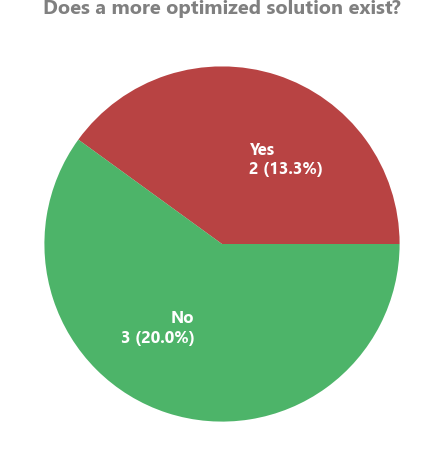
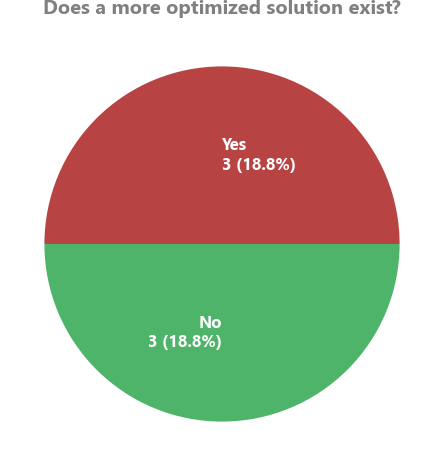
tried p16 and updated readme vis

Changed region(s): [[0.088, 0.3004, 0.4989, 0.5408], [0.2641, 0.6609, 0.4989, 0.7511], [0.4989, 0.3004, 0.7336, 0.3906]]

diff --git a/analysis.py b/analysis.py
@@ -52,38 +52,37 @@ matplotlib.rc('axes',edgecolor='gray')
 # import data
 df = pd.read_csv('analysis.csv')
 
-if False:
-    # solved problems by difficulty
-    agr_pie(
-        df["Difficulty"],
-        labels=["Easy", "Medium", "Hard"],
-        colors=[Colors.GREEN, Colors.YELLOW, Colors.RED],
-        title="Solved problems by difficulty",
-    )
-    saveplot("pie_difficulty.png")
+# solved problems by difficulty
+agr_pie(
+    df["Difficulty"],
+    labels=["Easy", "Medium", "Hard"],
+    colors=[Colors.GREEN, Colors.YELLOW, Colors.RED],
+    title="Solved problems by difficulty",
+)
+saveplot("pie_difficulty.png")
 
-    # does a more optimized solution exist?
-    agr_pie(
-        df["Better optimization?"],
-        labels=["Yes", "No"],
-        colors=[Colors.RED, Colors.GREEN],
-        title="Does a more optimized solution exist?",
-    )
-    saveplot("pie_optimization.png")
+# does a more optimized solution exist?
+agr_pie(
+    df["Better optimization?"],
+    labels=["Yes", "No"],
+    colors=[Colors.RED, Colors.GREEN],
+    title="Does a more optimized solution exist?",
+)
+saveplot("pie_optimization.png")
 
-    # problems needing revisiting
-    agr_pie(
-        df["Revisit?"],
-        labels=["Yes", "No"],
-        colors=[Colors.RED, Colors.GREEN],
-        title="Does the problem warrant revisiting?",
-    )
-    saveplot("pie_revisiting.png")
+# problems needing revisiting
+agr_pie(
+    df["Revisit?"],
+    labels=["Yes", "No"],
+    colors=[Colors.RED, Colors.GREEN],
+    title="Does the problem warrant revisiting?",
+)
+saveplot("pie_revisiting.png")
 
 # Time taken to solve problem by difficulty
 plt.figure(figsize=(13, 4))
-plt.hist(df[df["Difficulty"]=="Easy"]["Stopwatch"], bins=range(0,120,5), facecolor=Colors.GREEN, density=1, alpha=0.5)
-plt.hist(df[df["Difficulty"]=="Medium"]["Stopwatch"], bins=range(0,120,5), facecolor=Colors.YELLOW, density=1, alpha=0.5)
+plt.hist(df[df["Difficulty"]=="Easy"]["Stopwatch"], bins=range(0,130,5), facecolor=Colors.GREEN, density=1, alpha=0.5)
+plt.hist(df[df["Difficulty"]=="Medium"]["Stopwatch"], bins=range(0,130,5), facecolor=Colors.YELLOW, density=1, alpha=0.5)
 # plt.hist(df[df["Difficulty"]=="Hard"]["Stopwatch"], bins=range(0,120,5), facecolor=Colors.RED, density=1, alpha=0.5)
 plt.tight_layout()
 text_objs = []

diff --git a/16ThreeSumClosest/16ThreeSumClosestOpt.py b/16ThreeSumClosest/16ThreeSumClosestOpt.py
@@ -1,0 +1,30 @@
+# dynamic programming solution
+
+import copy
+
+class Solution:
+    def threeSumClosest(self, nums: list[int], target: int) -> int:
+        # dynamic programming
+        dct = {0:[True, False, False, False]}
+        for num in nums:
+            dct_copy = copy.deepcopy(dct)
+            for key in dct_copy:
+                dct[key+num] = [
+                    key+num in dct and dct[key+num][0],
+                    dct_copy[key][0] | (key+num in dct and dct[key+num][1]),
+                    dct_copy[key][1] | (key+num in dct and dct[key+num][2]),
+                    dct_copy[key][2] | (key+num in dct and dct[key+num][3])
+                ]
+                if sum(dct[key+num]) == 0:
+                    dct.pop(key+num)
+        closest = float('inf')
+        for key, val in dct.items():
+            if val[3] and abs(key - target) < abs(closest - target):
+                closest = key
+        return closest
+
+sol = Solution()
+print(sol.threeSumClosest(
+    nums = [0,2,1,-3],
+    target = 1
+))

diff --git a/16ThreeSumClosest/16ThreeSumClosestBrute.py b/16ThreeSumClosest/16ThreeSumClosestBrute.py
@@ -1,0 +1,10 @@
+class Solution:
+    def threeSumClosest(self, nums: list[int], target: int) -> int:
+        mindistsum = float('inf')
+        for i in range(len(nums)):
+            for j in range(i+1, len(nums)):
+                for k in range(j+1, len(nums)):
+                    distsum = nums[i]+nums[j]+nums[k]
+                    if abs(target - distsum) < abs(target - mindistsum):
+                        mindistsum = distsum
+        return mindistsum
